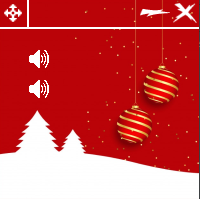
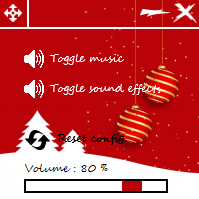
update gui picture and add symbole % next the volume value

diff --git a/diskmth/ConfigGUI.py b/diskmth/ConfigGUI.py
@@ -69,7 +69,7 @@ def configGUI():
             button_toggle_sound_effects.config(image=soundOffPicture)
 
         volume_control.set(Utils.getSettingValue("volume"))
-        volume_value.config(text=Utils.getSettingValue("volume"))
+        volume_value.config(text=Utils.getSettingValue("volume") + " %")
 
     def toggleMusic():
         Utils.buttonClick("button_toggle_music")
@@ -91,7 +91,7 @@ def configGUI():
 
     def setVolume(volume):
         Utils.setSettingValue("volume", str(volume))
-        volume_value.config(text=Utils.getSettingValue("volume"))
+        volume_value.config(text=Utils.getSettingValue("volume") + " %")
 
     def getPictureForButton(buttonName):
         if buttonName == "music":
@@ -142,7 +142,7 @@ def configGUI():
     volume = Label(text="Volume : ", font=("Segoe Script", 8), bd=0, bg="white")
     volume.place(x=25, y=160)
 
-    volume_value = Label(text=Utils.getSettingValue("volume"), font=("Segoe Script", 8), bd=0, bg="white")
+    volume_value = Label(text=Utils.getSettingValue("volume") + " %", font=("Segoe Script", 8), bd=0, bg="white")
     volume_value.place(x=80, y=160)
 
     button_reduce = Button(image=reducePicture, bd=0, highlightthickness=0, padx=32, pady=28, command=reduceFrame)
